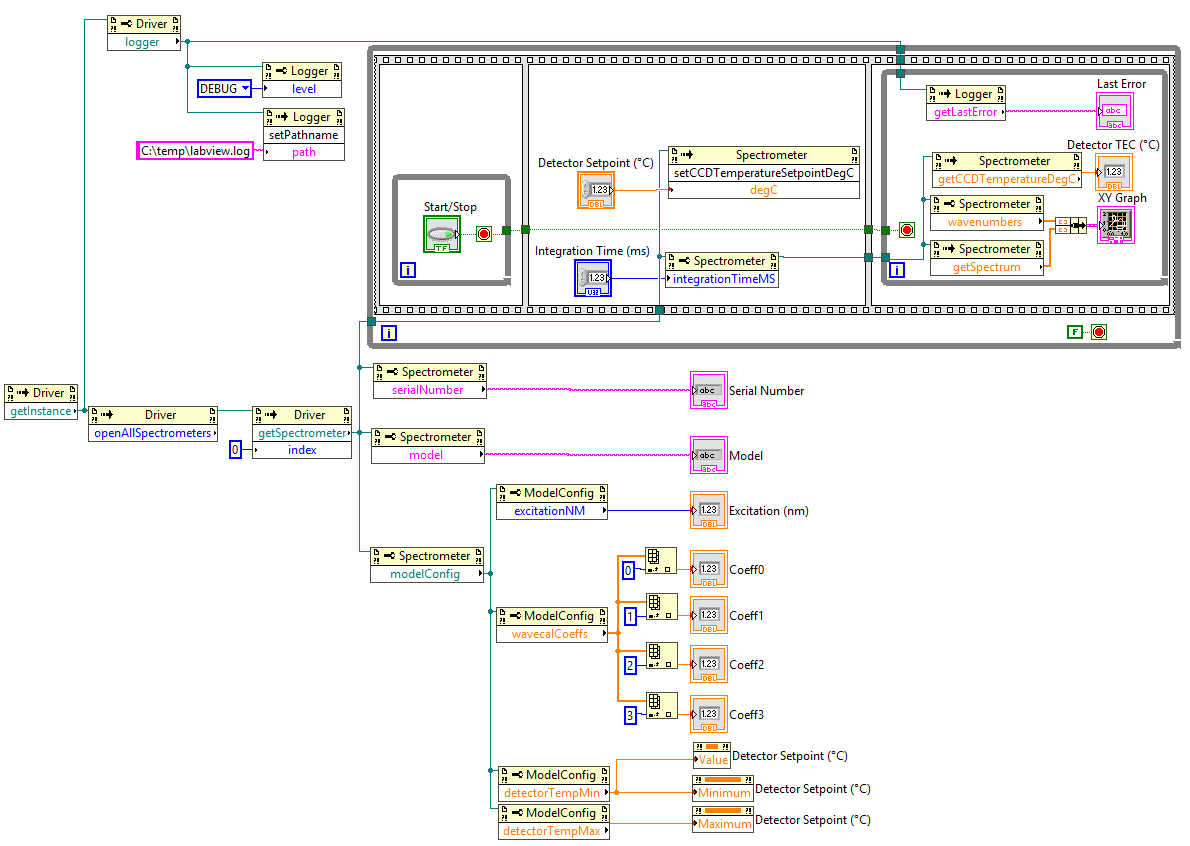
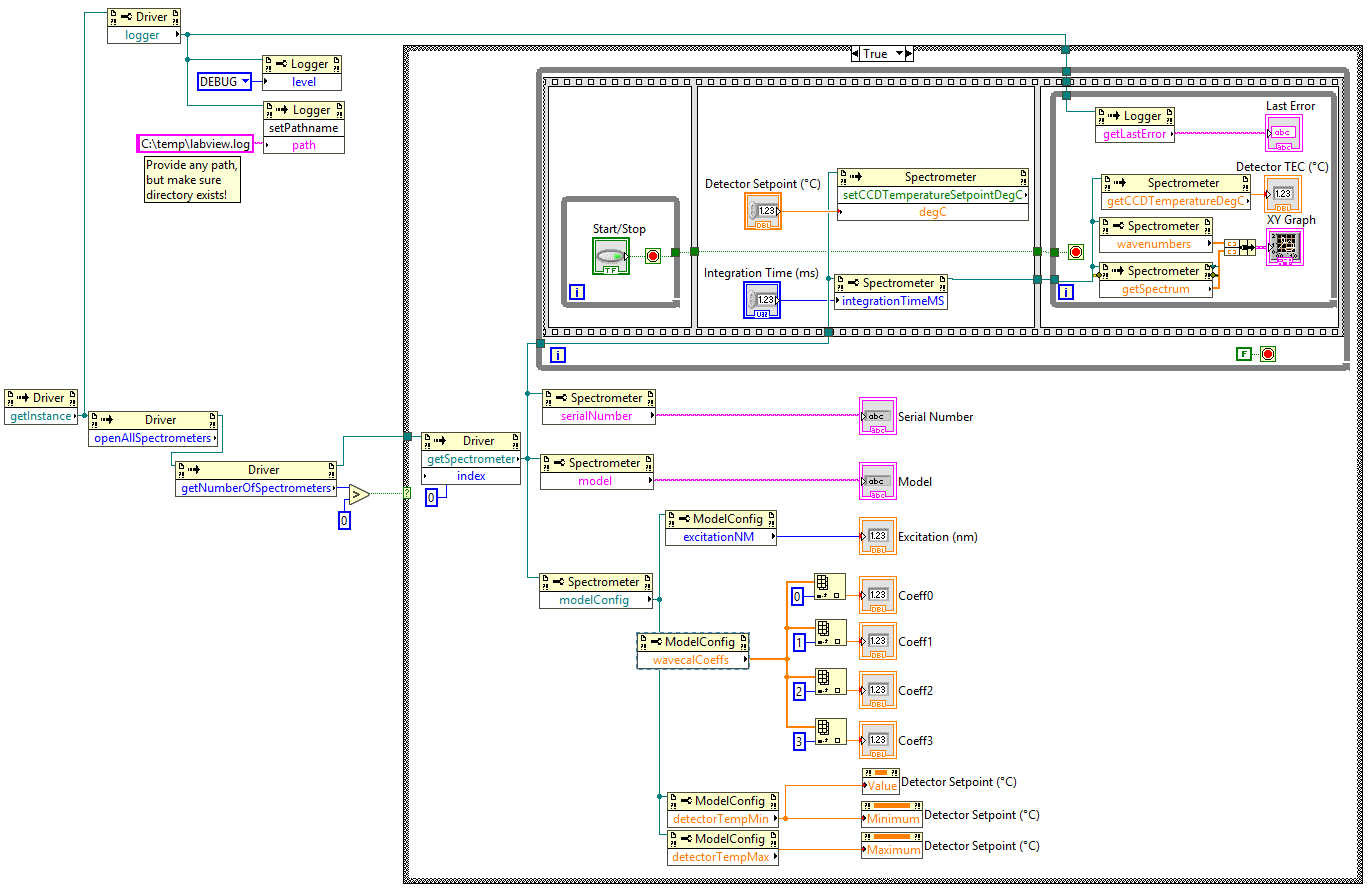
added check for no spectrometers

Changed region(s): [[0.0, 0.0, 1.0, 1.0]]

diff --git a/README.md b/README.md
@@ -28,8 +28,22 @@ depending on which version of the driver you installed:
 - C:\\Program Files\\Wasatch Photonics\\Wasatch.NET\\WasatchNET.dll
 - C:\\Program Files (x86)\\Wasatch Photonics\\Wasatch.NET\\WasatchNET.dll
 
+# Common Errors
+
+## No spectrometers found
+
+Make sure that after installing Wasatch.NET, you 
+[updated the device drivers](https://github.com/WasatchPhotonics/Wasatch.NET#post-install-step-1-libusb-drivers)
+for your spectrometers.
+
+## Error 1386 occured at Invoke Node: The specified .NET class is not available
+
+Most common reason for this seems to be trying to use a 64-bit version of 
+Wasatch.NET with a 32-bit version of LabVIEW, or vice-versa.
+
 # Version History
 
+- 2017-12-05 Added check for no spectrometers (tested w/1.0.13)
 - 2017-11-09 Updated setCCDTemperatureSetpointDegC (tested w/1.0.11)
 - 2017-10-24 Added TEC control with limits (tested w/Wasatch.NET 1.0.8)
 - 2017-10-11 Added detector temperature readout
